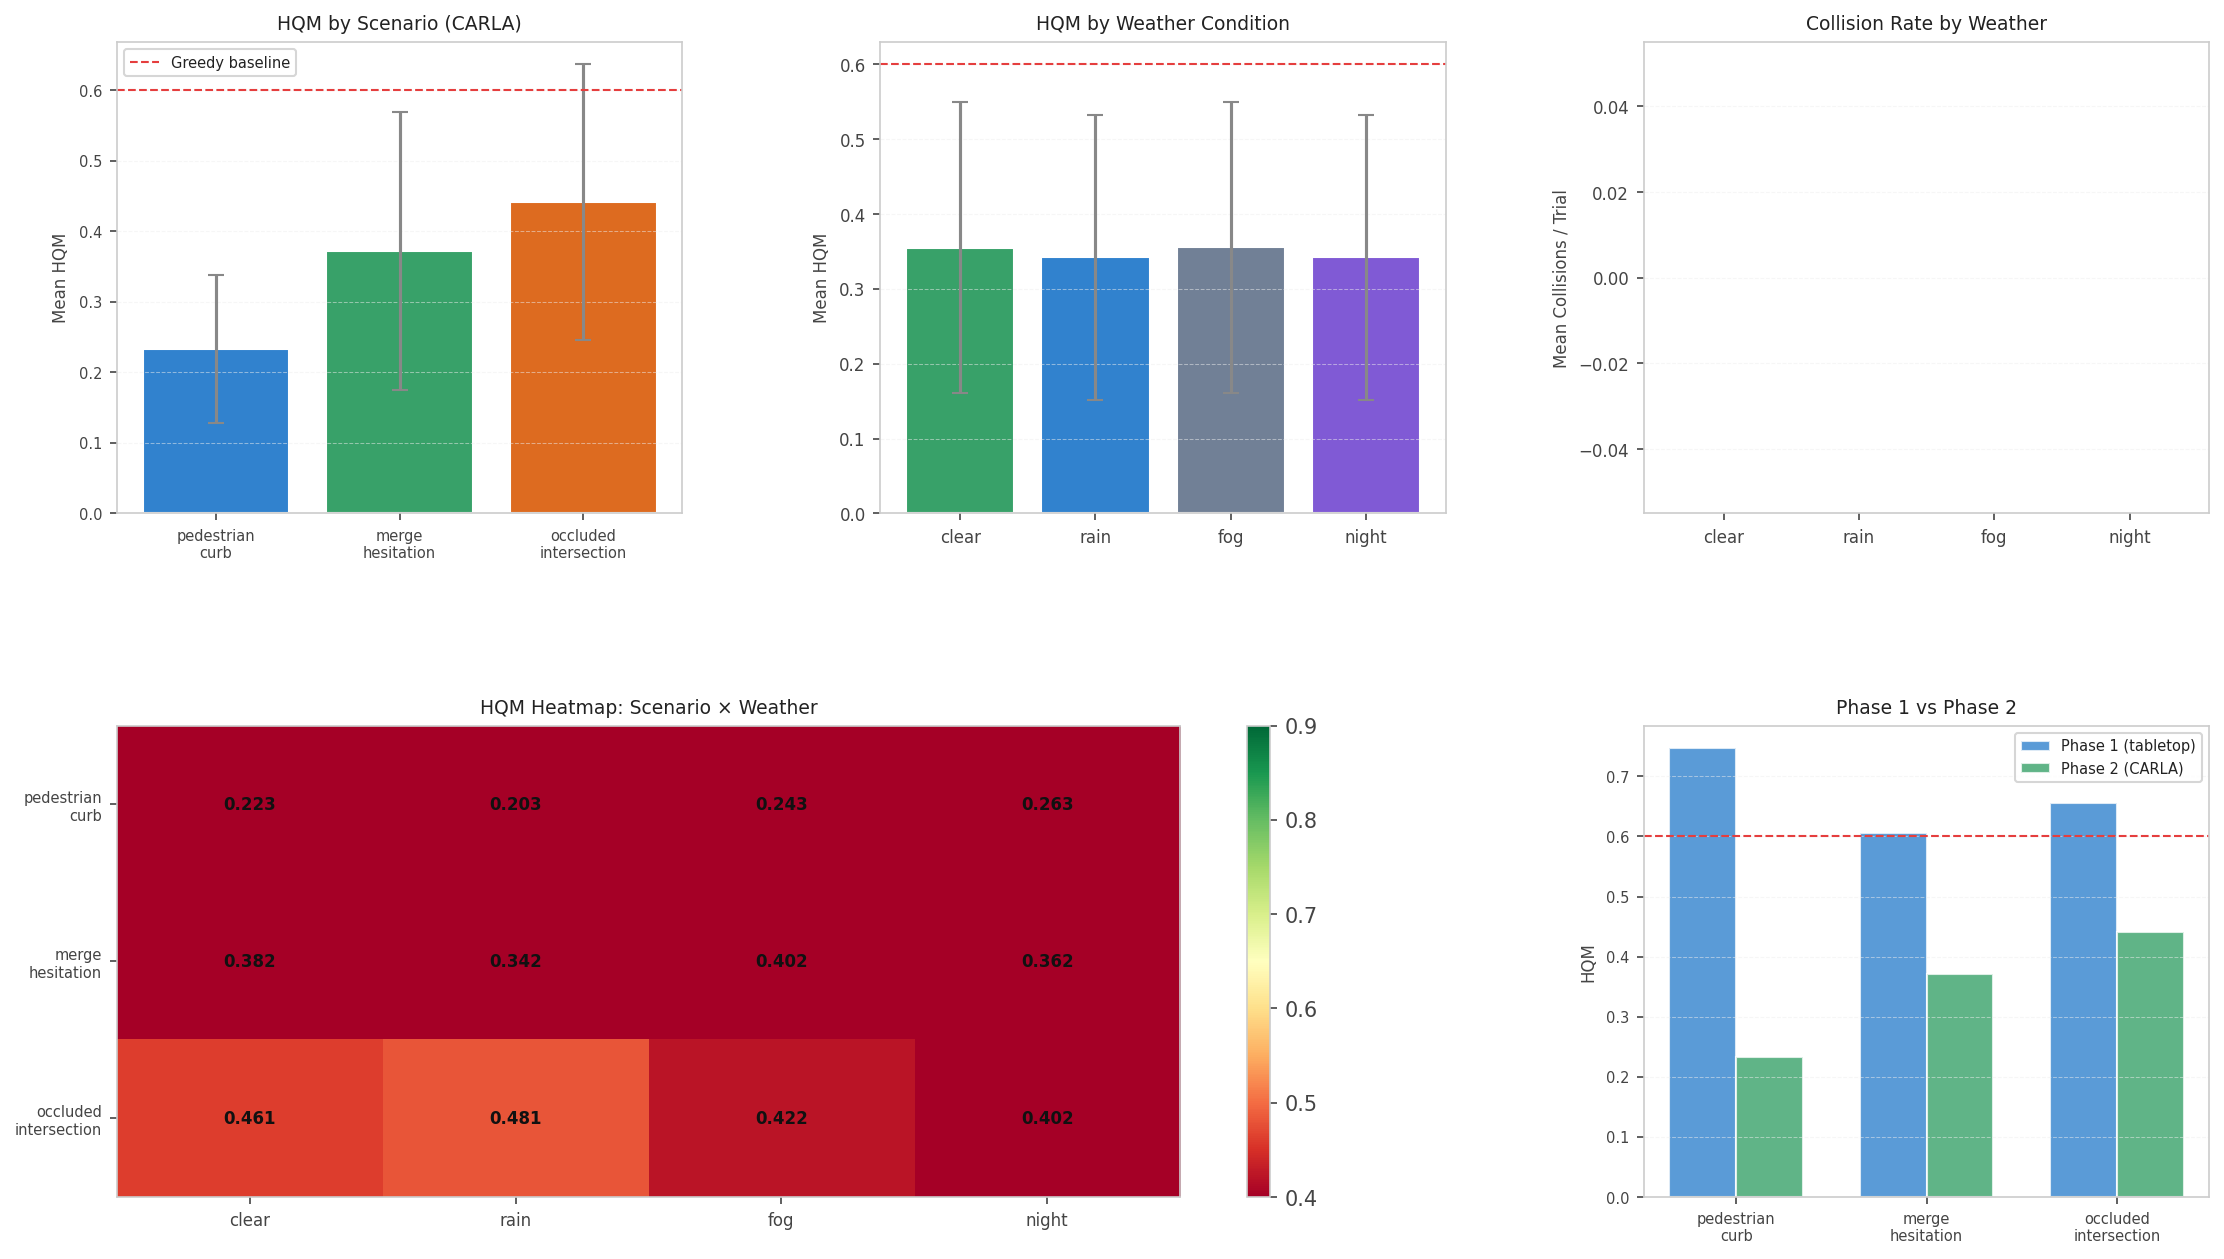
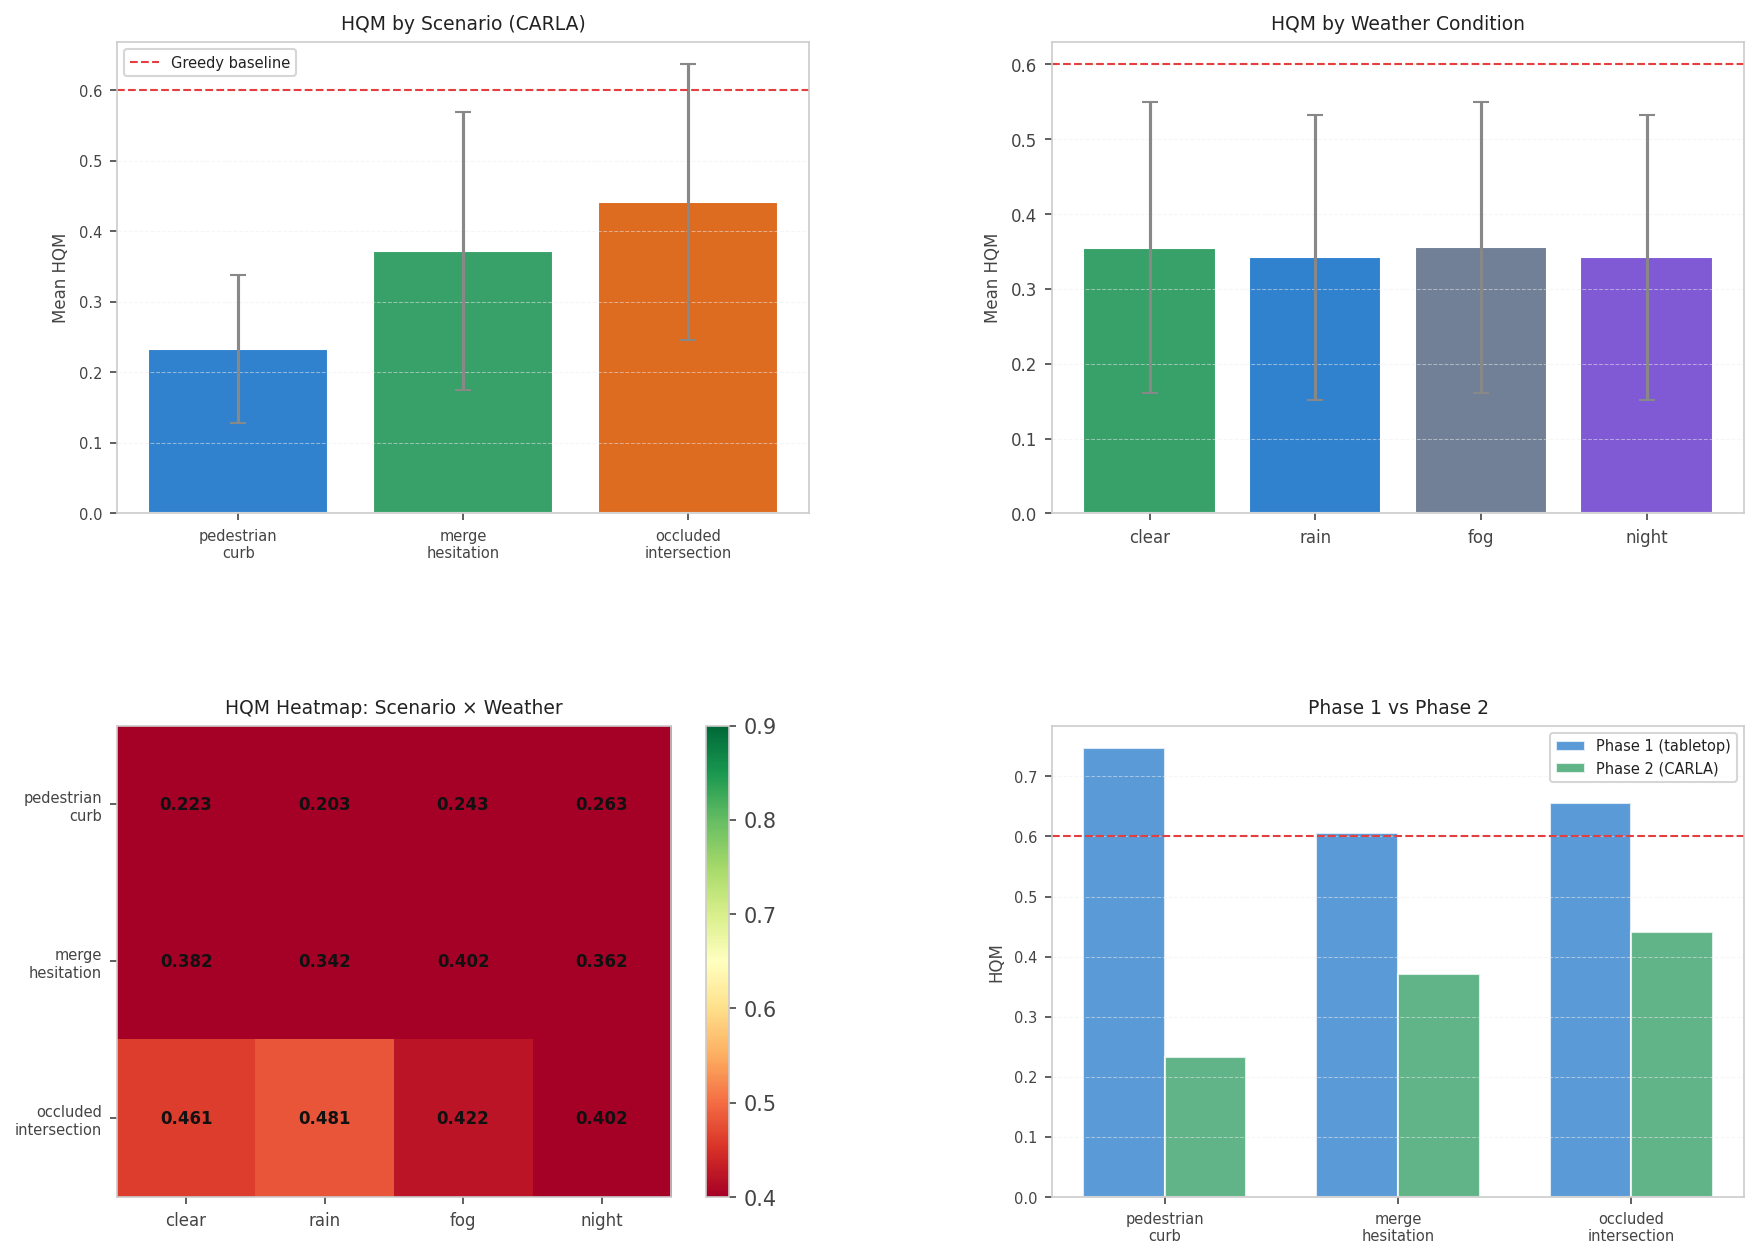
Final paper submitted to Arxiv

diff --git a/experiments/carla_validation.py b/experiments/carla_validation.py
@@ -638,9 +638,9 @@ def plot_carla(df):
         "grid.linewidth":   0.5,
     })
 
-    fig = plt.figure(figsize=(18, 10),
+    fig = plt.figure(figsize=(14, 10),
                       facecolor="white")
-    gs  = gridspec.GridSpec(2, 3, figure=fig,
+    gs  = gridspec.GridSpec(2, 2, figure=fig,
                             hspace=0.45,
                             wspace=0.35)
 
@@ -659,7 +659,7 @@ def plot_carla(df):
     scenarios = df["scenario"].unique()
     weathers  = ["clear", "rain", "fog", "night"]
 
-    #  HQM by scenario 
+    # ── HQM by scenario ───────────────────────
     ax1 = fig.add_subplot(gs[0, 0])
     ax1.set_facecolor("white")
     means  = [df[df.scenario==s]["hqm"].mean()
@@ -680,15 +680,14 @@ def plot_carla(df):
                    color="#222222", fontsize=9)
     ax1.set_ylabel("Mean HQM",
                     color="#444444", fontsize=8)
-    ax1.tick_params(colors="#444444",
-                     labelsize=7)
+    ax1.tick_params(colors="#444444", labelsize=7)
     ax1.grid(True, axis="y", alpha=0.5)
     ax1.legend(fontsize=7, facecolor="white",
                 edgecolor="#cccccc")
     for spine in ax1.spines.values():
         spine.set_edgecolor("#cccccc")
 
-    #  HQM by weather 
+    # ── HQM by weather ─────────────────────────
     ax2 = fig.add_subplot(gs[0, 1])
     ax2.set_facecolor("white")
     w_means  = [df[df.weather==w]["hqm"].mean()
@@ -706,73 +705,53 @@ def plot_carla(df):
                    color="#222222", fontsize=9)
     ax2.set_ylabel("Mean HQM",
                     color="#444444", fontsize=8)
-    ax2.tick_params(colors="#444444",
-                     labelsize=8)
+    ax2.tick_params(colors="#444444", labelsize=8)
     ax2.grid(True, axis="y", alpha=0.5)
     for spine in ax2.spines.values():
         spine.set_edgecolor("#cccccc")
 
-    #  Collision rate by weather 
-    ax3 = fig.add_subplot(gs[0, 2])
+    # ── HQM heatmap: scenario × weather ────────
+    ax3 = fig.add_subplot(gs[1, 0])
     ax3.set_facecolor("white")
-    col_means = [
-        df[df.weather==w]["collisions"].mean()
-        for w in weathers]
-    ax3.bar(weathers, col_means,
-             color=w_colors, edgecolor="white")
-    ax3.set_title("Collision Rate by Weather",
-                   color="#222222", fontsize=9)
-    ax3.set_ylabel("Mean Collisions / Trial",
-                    color="#444444", fontsize=8)
-    ax3.tick_params(colors="#444444",
-                     labelsize=8)
-    ax3.grid(True, axis="y", alpha=0.5)
-    for spine in ax3.spines.values():
-        spine.set_edgecolor("#cccccc")
-
-    #  HQM heatmap: scenario × weather 
-    ax4 = fig.add_subplot(gs[1, :2])
-    ax4.set_facecolor("white")
     heatmap_data = np.array([
         [df[(df.scenario==s) &
             (df.weather==w)]["hqm"].mean()
          for w in weathers]
         for s in scenarios
     ])
-    im = ax4.imshow(heatmap_data,
+    im = ax3.imshow(heatmap_data,
                      cmap="RdYlGn",
                      vmin=0.4, vmax=0.9,
                      aspect="auto")
-    ax4.set_xticks(range(len(weathers)))
-    ax4.set_xticklabels(weathers,
+    ax3.set_xticks(range(len(weathers)))
+    ax3.set_xticklabels(weathers,
                          color="#444444",
                          fontsize=8)
-    ax4.set_yticks(range(len(scenarios)))
-    ax4.set_yticklabels(
-        [s.replace("_", "\n")
-         for s in scenarios],
+    ax3.set_yticks(range(len(scenarios)))
+    ax3.set_yticklabels(
+        [s.replace("_", "\n") for s in scenarios],
         color="#444444", fontsize=7)
-    ax4.set_title(
+    ax3.set_title(
         "HQM Heatmap: Scenario × Weather",
         color="#222222", fontsize=9)
     for i in range(len(scenarios)):
         for j in range(len(weathers)):
-            ax4.text(
+            ax3.text(
                 j, i,
                 f"{heatmap_data[i,j]:.3f}",
                 ha="center", va="center",
                 color="#111111", fontsize=8,
                 fontweight="bold")
-    plt.colorbar(im, ax=ax4)
+    plt.colorbar(im, ax=ax3)
 
-    #  Phase 1 vs CARLA 
-    ax5 = fig.add_subplot(gs[1, 2])
-    ax5.set_facecolor("white")
+    # ── Phase 1 vs CARLA ───────────────────────
+    ax4 = fig.add_subplot(gs[1, 1])
+    ax4.set_facecolor("white")
 
     phase1_path = RESULTS_DIR / "results.csv"
     if phase1_path.exists():
-        phase1  = pd.read_csv(phase1_path)
-        p1_hes  = phase1[
+        phase1 = pd.read_csv(phase1_path)
+        p1_hes = phase1[
             phase1.policy == "hesitation"]
 
         p1_vals, p2_vals, labels = [], [], []
@@ -789,40 +768,36 @@ def plot_carla(df):
 
         x = np.arange(len(labels))
         w = 0.35
-        ax5.bar(x - w/2, p1_vals, w,
+        ax4.bar(x - w/2, p1_vals, w,
                  color="#3182ce", alpha=0.8,
                  label="Phase 1 (tabletop)",
                  edgecolor="white")
-        ax5.bar(x + w/2, p2_vals, w,
+        ax4.bar(x + w/2, p2_vals, w,
                  color="#38a169", alpha=0.8,
                  label="Phase 2 (CARLA)",
                  edgecolor="white")
-        ax5.set_xticks(x)
-        ax5.set_xticklabels(labels,
+        ax4.set_xticks(x)
+        ax4.set_xticklabels(labels,
                              fontsize=7,
                              color="#444444")
-        ax5.axhline(y=0.60, color="#e53e3e",
+        ax4.axhline(y=0.60, color="#e53e3e",
                      linestyle="--", linewidth=1)
-        ax5.set_title("Phase 1 vs Phase 2",
-                       color="#222222",
-                       fontsize=9)
-        ax5.set_ylabel("HQM",
-                        color="#444444",
-                        fontsize=8)
-        ax5.tick_params(colors="#444444",
+        ax4.set_title("Phase 1 vs Phase 2",
+                       color="#222222", fontsize=9)
+        ax4.set_ylabel("HQM",
+                        color="#444444", fontsize=8)
+        ax4.tick_params(colors="#444444",
                          labelsize=7)
-        ax5.grid(True, axis="y", alpha=0.5)
-        ax5.legend(fontsize=7,
-                    facecolor="white",
+        ax4.grid(True, axis="y", alpha=0.5)
+        ax4.legend(fontsize=7, facecolor="white",
                     edgecolor="#cccccc")
-        for spine in ax5.spines.values():
+        for spine in ax4.spines.values():
             spine.set_edgecolor("#cccccc")
     else:
-        ax5.text(0.5, 0.5,
+        ax4.text(0.5, 0.5,
                   "Phase 1 results\nnot found",
-                  transform=ax5.transAxes,
-                  ha="center",
-                  color="#718096")
+                  transform=ax4.transAxes,
+                  ha="center", color="#718096")
 
     plt.savefig(
         RESULTS_DIR / "carla_validation.png",

diff --git a/experiments/generate_augmentation_figure.py b/experiments/generate_augmentation_figure.py
@@ -1,0 +1,191 @@
+"""
+experiments/generate_augmentation_figure.py
+
+Generates augmentation visualization figure for paper.
+
+Shows how each augmentation technique transforms
+actual HesitAV-1564 frames across all three
+scenario classes.
+
+Layout:
+  Rows:    pedestrian_curb | merge_hesitation | occluded_intersection
+  Columns: Original | H-Flip | Rotation | Color Jitter |
+           Gaussian Blur | Sobel Edge | Grayscale | Erasing
+
+Run:
+  python experiments/generate_augmentation_figure.py
+"""
+
+import cv2
+import numpy as np
+import matplotlib.pyplot as plt
+import matplotlib.gridspec as gridspec
+from pathlib import Path
+import random
+
+RECORDINGS   = Path("experiments/recordings")
+PAPER_FIGURES = Path("paper_figures")
+PAPER_FIGURES.mkdir(exist_ok=True)
+
+#  Pick one representative frame per scenario 
+
+SCENARIO_FOLDERS = {
+    "pedestrian\_curb":       "pedestrian_curb_1780190788",
+    "occluded\_intersection": "occluded_intersection_1780197183",
+}
+
+def pick_frame(folder_name, frame_index=300):
+    """Load a representative frame from a recording folder."""
+    frames_dir = RECORDINGS / folder_name / "frames"
+    if not frames_dir.exists():
+        print(f"  [WARN] Not found: {frames_dir}")
+        return None
+    jpgs = sorted(frames_dir.glob("*.jpg"))
+    if not jpgs:
+        return None
+    idx   = min(frame_index, len(jpgs) - 1)
+    frame = cv2.imread(str(jpgs[idx]))
+    frame = cv2.cvtColor(frame, cv2.COLOR_BGR2RGB)
+    return frame
+
+
+#  Augmentation functions 
+
+def aug_original(img):
+    return img.copy()
+
+def aug_hflip(img):
+    return np.fliplr(img)
+
+def aug_rotation(img, angle=15):
+    h, w  = img.shape[:2]
+    M     = cv2.getRotationMatrix2D((w//2, h//2), angle, 1.0)
+    return cv2.warpAffine(img, M, (w, h),
+                          borderMode=cv2.BORDER_REFLECT)
+
+def aug_colorjitter(img):
+    out = img.astype(np.float32)
+    # Brightness
+    out = out * random.uniform(0.6, 1.4)
+    # Contrast
+    mean = out.mean()
+    out  = (out - mean) * random.uniform(0.7, 1.3) + mean
+    # Saturation (operate in HSV)
+    hsv  = cv2.cvtColor(
+        np.clip(out, 0, 255).astype(np.uint8),
+        cv2.COLOR_RGB2HSV).astype(np.float32)
+    hsv[..., 1] *= random.uniform(0.6, 1.4)
+    out = cv2.cvtColor(
+        np.clip(hsv, 0, 255).astype(np.uint8),
+        cv2.COLOR_HSV2RGB)
+    return np.clip(out, 0, 255).astype(np.uint8)
+
+def aug_gaussian_blur(img, ksize=11):
+    return cv2.GaussianBlur(img, (ksize, ksize), 0)
+
+def aug_sobel_edge(img):
+    gray  = cv2.cvtColor(img, cv2.COLOR_RGB2GRAY)
+    sx    = cv2.Sobel(gray, cv2.CV_64F, 1, 0, ksize=3)
+    sy    = cv2.Sobel(gray, cv2.CV_64F, 0, 1, ksize=3)
+    mag   = np.sqrt(sx**2 + sy**2)
+    mag   = (mag / mag.max() * 255).astype(np.uint8)
+    return cv2.cvtColor(mag, cv2.COLOR_GRAY2RGB)
+
+def aug_grayscale(img):
+    gray = cv2.cvtColor(img, cv2.COLOR_RGB2GRAY)
+    return cv2.cvtColor(gray, cv2.COLOR_GRAY2RGB)
+
+def aug_erasing(img, ratio=0.25):
+    out  = img.copy()
+    h, w = out.shape[:2]
+    rh   = int(h * ratio)
+    rw   = int(w * ratio)
+    y    = random.randint(0, h - rh)
+    x    = random.randint(0, w - rw)
+    out[y:y+rh, x:x+rw] = 128  # grey fill
+    return out
+
+
+AUGMENTATIONS = [
+    ("Original",       aug_original),
+    ("H-Flip",         aug_hflip),
+    ("Rotation\n±15°", aug_rotation),
+    ("Color\nJitter",  aug_colorjitter),
+    ("Gaussian\nBlur", aug_gaussian_blur),
+    ("Sobel\nEdge",    aug_sobel_edge),
+    ("Grayscale",      aug_grayscale),
+    ("Random\nErasing",aug_erasing),
+]
+
+
+#  Plot 
+
+def generate_figure():
+    random.seed(42)
+
+    scenarios = list(SCENARIO_FOLDERS.items())
+    n_rows    = len(scenarios)
+    n_cols    = len(AUGMENTATIONS)
+
+    plt.rcParams.update({
+        "figure.facecolor": "white",
+        "axes.facecolor":   "white",
+        "text.color":       "#222222",
+    })
+
+    fig = plt.figure(figsize=(n_cols * 2.0,
+                               n_rows * 2.4),
+                      facecolor="white")
+    fig.suptitle(
+        "Data Augmentation Pipeline - HesitAV-1564",
+        fontsize=11, fontweight="bold",
+        color="#111111", y=0.98)
+
+    gs = gridspec.GridSpec(
+        n_rows, n_cols, figure=fig,
+        hspace=0.08, wspace=0.04)
+
+    for row, (label, folder) in enumerate(scenarios):
+        frame = pick_frame(folder)
+        if frame is None:
+            print(f"  [SKIP] {folder} not found")
+            continue
+
+        # Resize to uniform size for display
+        frame = cv2.resize(frame, (224, 224))
+
+        for col, (aug_name, aug_fn) in \
+                enumerate(AUGMENTATIONS):
+            ax  = fig.add_subplot(gs[row, col])
+            aug = aug_fn(frame)
+            ax.imshow(aug)
+            ax.axis("off")
+
+            # Column headers (top row only)
+            if row == 0:
+                ax.set_title(aug_name,
+                              fontsize=7.5,
+                              color="#333333",
+                              pad=4)
+
+            # Row labels (first column only)
+            if col == 0:
+                ax.set_ylabel(
+                    label,
+                    fontsize=8,
+                    color="#333333",
+                    labelpad=4,
+                    rotation=90,
+                    va="center")
+
+    out = PAPER_FIGURES / "augmentation_pipeline.png"
+    plt.savefig(out, dpi=150,
+                bbox_inches="tight",
+                facecolor="white")
+    print(f"\n  Saved → {out}")
+
+
+if __name__ == "__main__":
+    print("\nGenerating augmentation figure...")
+    generate_figure()
+    print("Done.")
